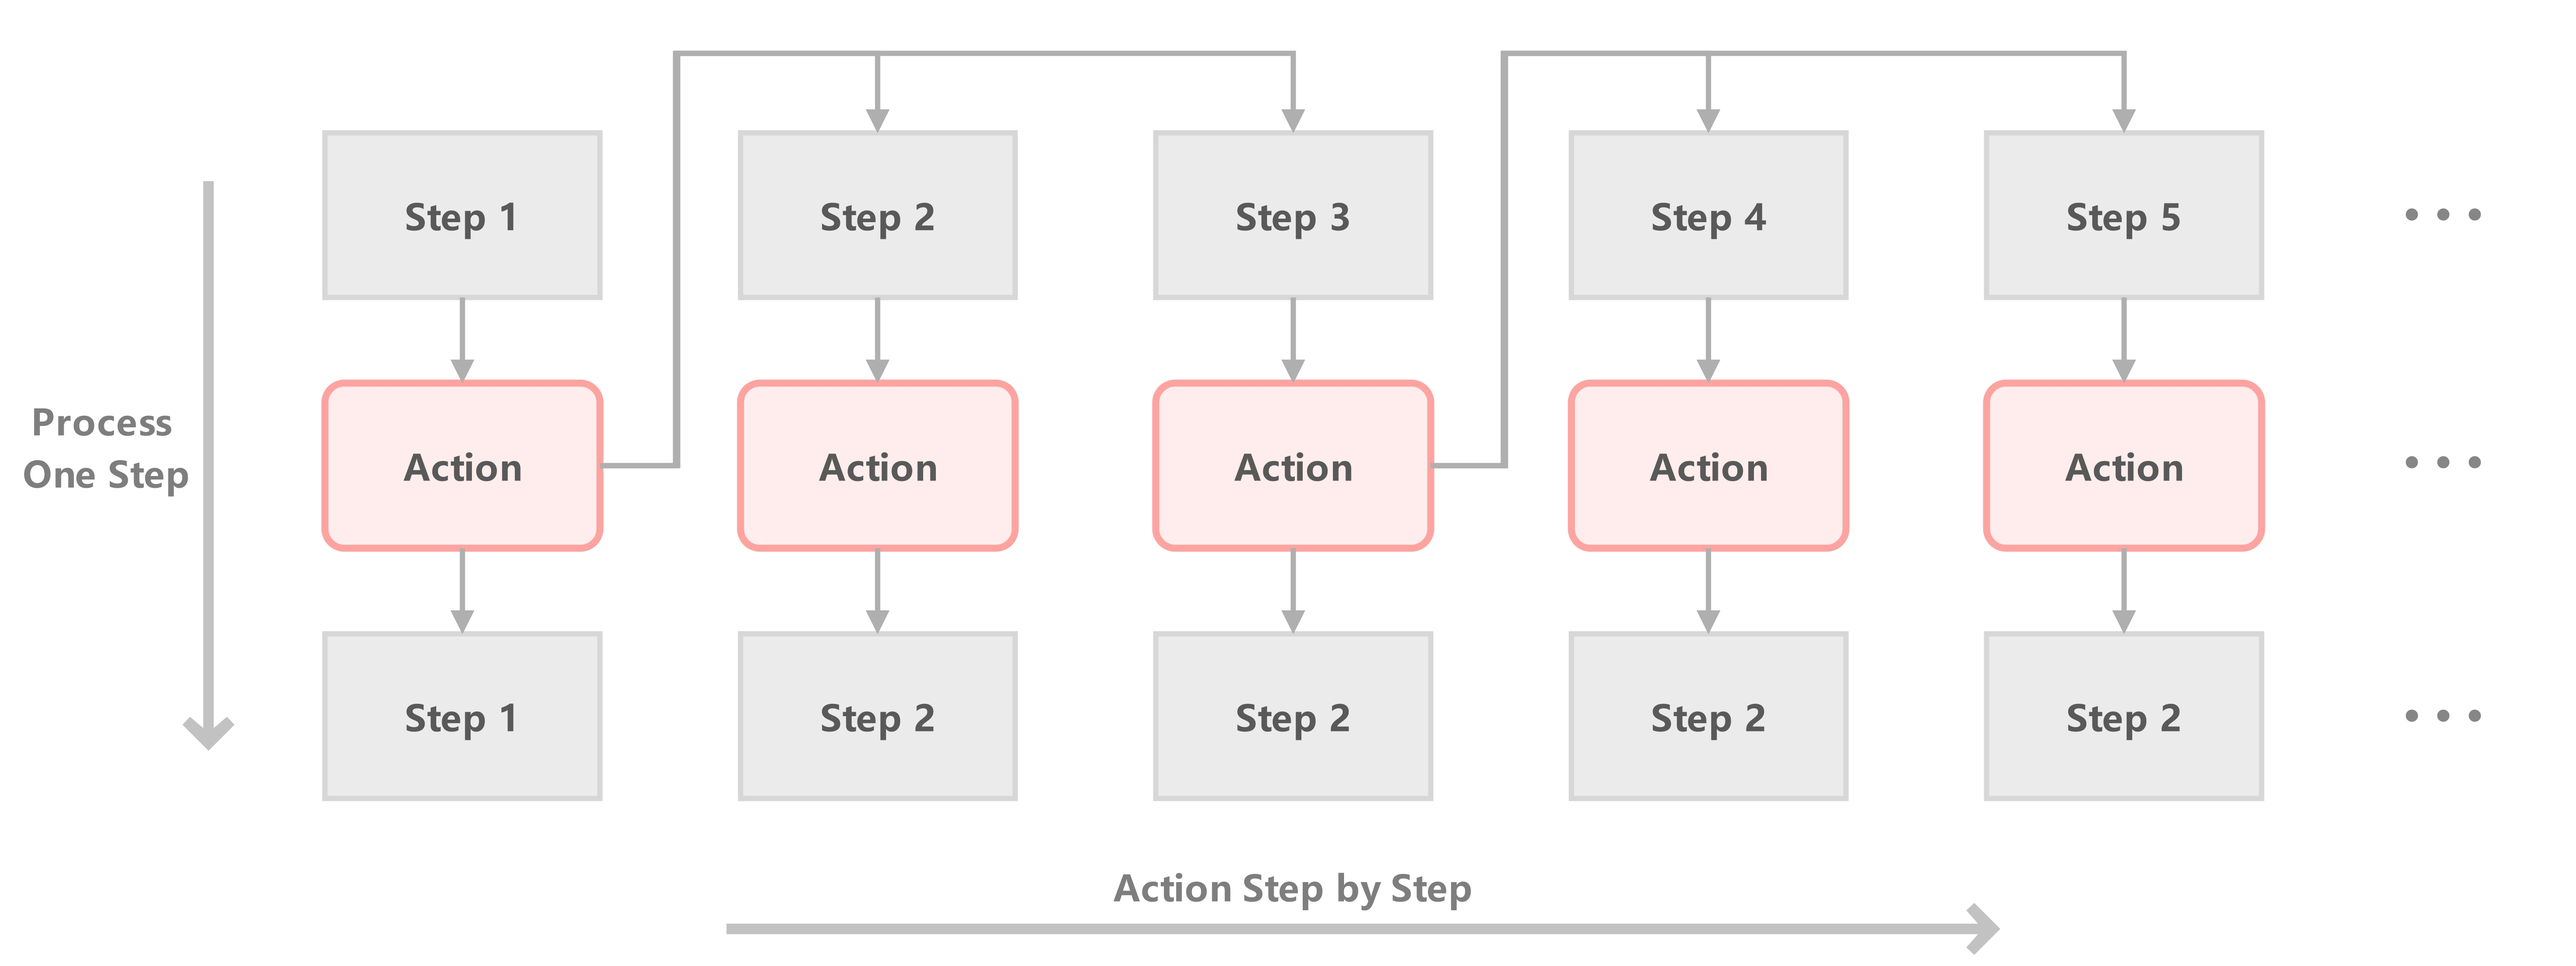
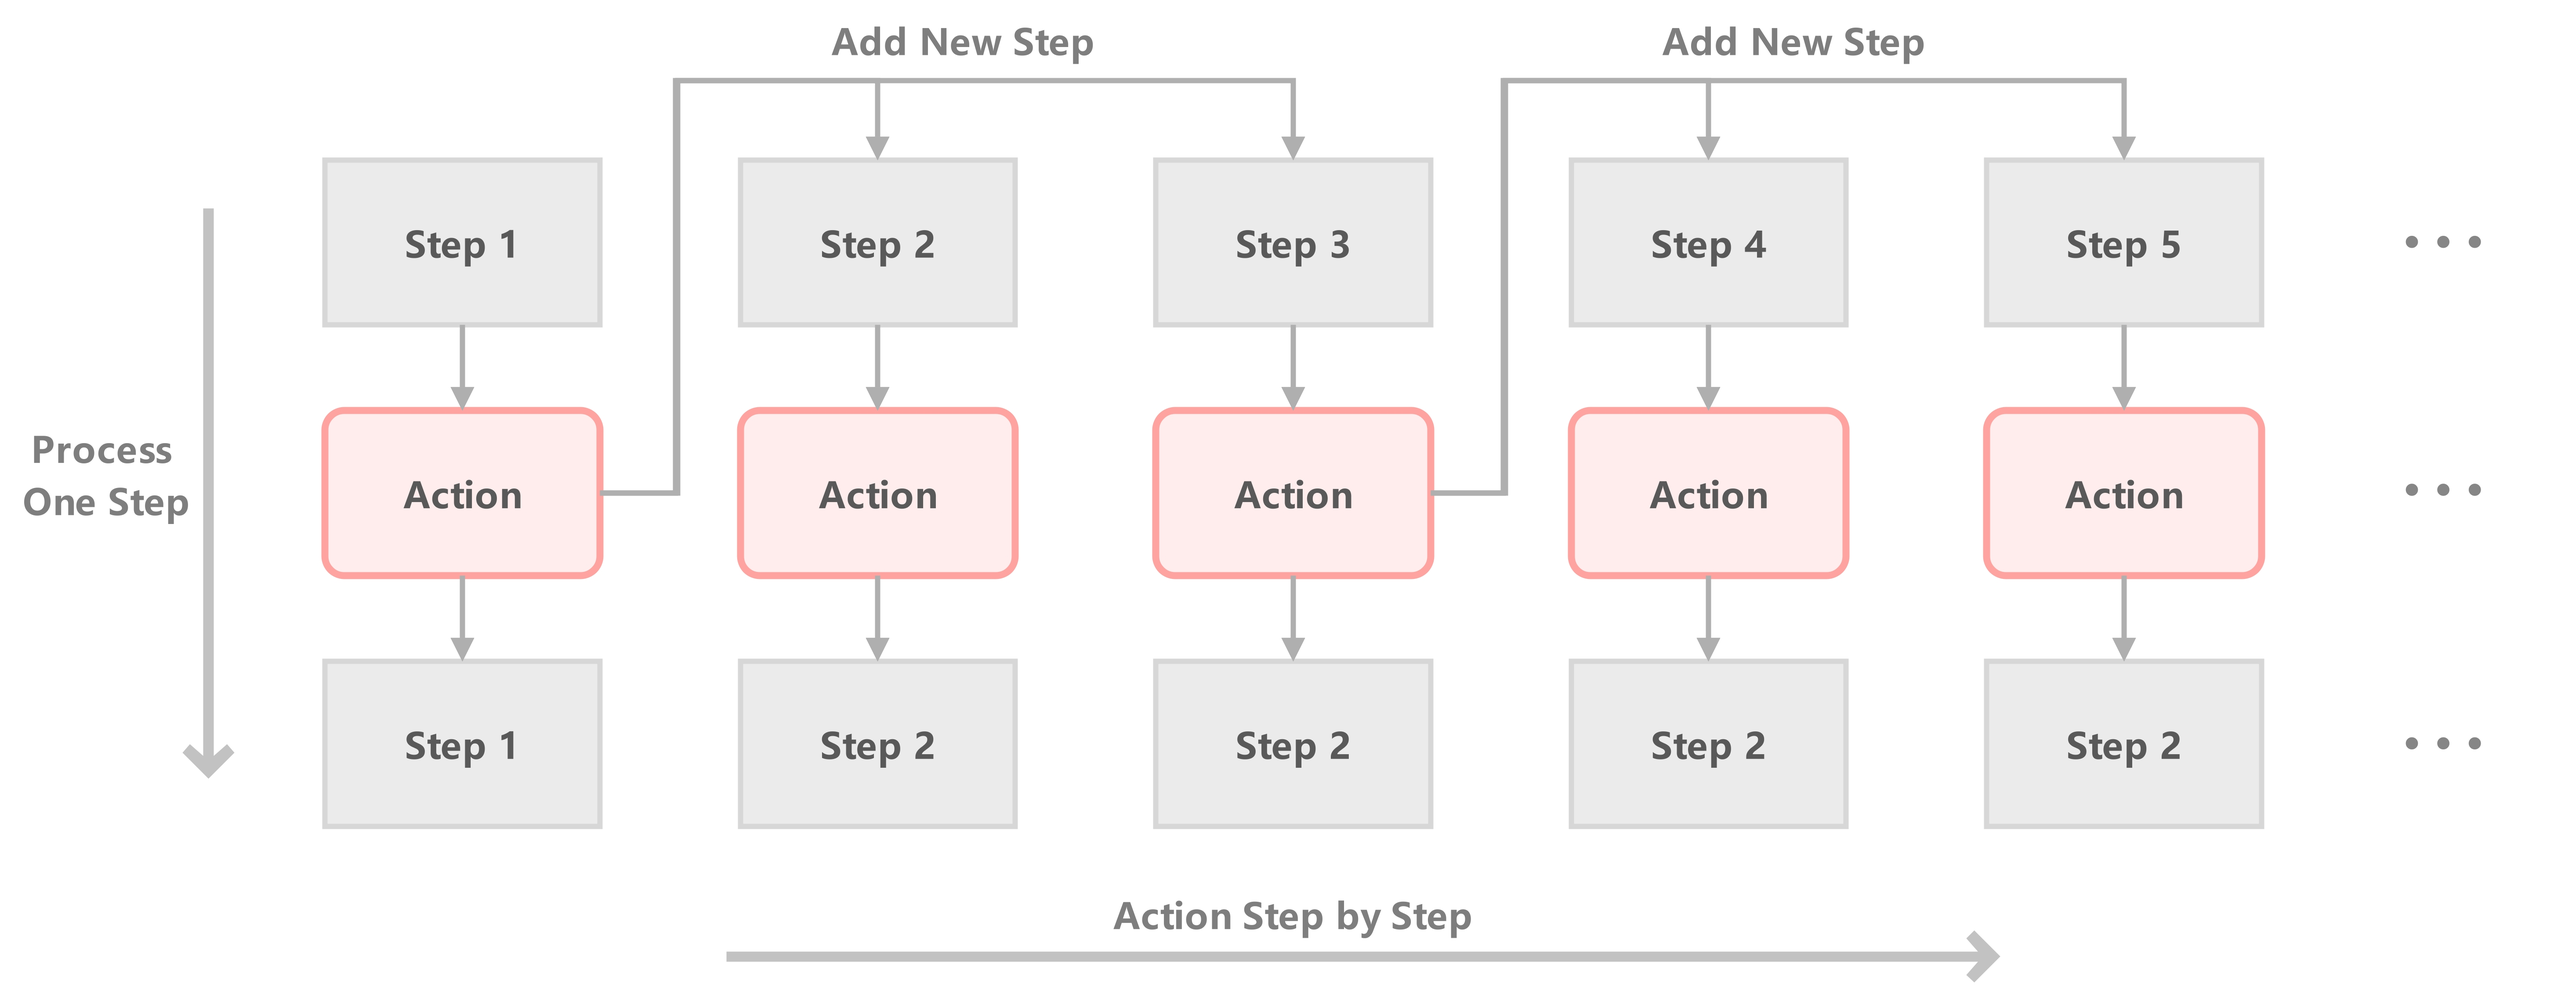
update

diff --git a/-技术报告/多智能体系统-技术报告/TechReport/技术报告中文草稿.md b/-技术报告/多智能体系统-技术报告/TechReport/技术报告中文草稿.md
@@ -162,29 +162,51 @@ Agent State是Agent运行的重要载体。Agent State是一个用于维护Agent
 
 为此我们实现了如图【4】所示的一种构型，通过两个任务层面的状态（Task State和Stage State）和两个Agent执行层面的状态（Agent State和Step State）来有序地管理任务的执行。
 
-
+我们使用Agent和Step两个层级来确保每个Agent的执行均拥有很大的自主决策权，确保对单点任务的强大攻坚能力。我们使用Task和Stage两个层级来确保任务分工的明确，Stage与Stage之间的串行执行和Stage内部多Agent的并行执行能够适应绝大多数的复杂任务框架。
 
 ### 4.1 Status Records Task Information
 
 现在我们详细地说明我们是如何通过状态来追踪和管理任务进程的。由图【4】可以看到，我们的一个Task下包含了多个Stage，每个Stage顺序执行，同一时刻只有一个Stage处于执行状态。在一个Stage中，可能有多个Agent协作执行该阶段目标。而每个Agent会通过一个个具体Step（见图【3】）来逐步完成其被分配的阶段目标。
 
+我们先简要介绍这四种状态所对应的实际运行逻辑：
+
+- Task State
+
+  当整个系统被指派多个任务时，每个任务会有自己的一个任务群组。任务群组由多个参与执行该任务的Agent组成。对每个Agent而言，可能同时参与多个任务群组。但一个任务群组只专注于一个任务，因此Task State负责记录一个任务群组中所有的参与Agent，并记录一个完整的任务流程，即该任务下包含的所有Stage。
+
+  当任务完成时该任务群组解散，随之Task State被清除。
+
+- Stage State
+
+  面对复杂任务时，Agent往往会将任务目标拆分成多个顺序执行的子目标，每个Stage负责一个子目标。面对一些复杂的阶段目标时，阶段支持由多个Agent并行执行该阶段目标。Agent之间可以通信交流来合作实现具体的阶段目标。
+
+  Stage State用于记录该子目标的详细内容，包括Stage中每个参与Agent的具体目标等。Stage完成后并不会立即清除Stage State，而是等到Task结束时一起清除。因为需要保留阶段完成情况以供Task结束判定。
+
+- Agent State
+
+  正如本文第【[3.3]()】节描述的，Agent State是Agent的重要载体。Agent实例化后的一切信息均存储在Agent State中，例如Agent的角色背景设定、技能与工具的权限、持续性记忆等。
+
+  Agent State主要由Agent自身进行更新，例如更新自身的Agent Step以赋予自己行动和决策的能力。但在一些情况下，管理Agent和人类操作员也可以主动改变其他Agent State。Agent State只有在系统中对应Agent被休眠时才会清除释放。
+
+- Step State
+
+  我们在本文【[3.1]()】和【[3.2]()】节说明的Step的执行方式，并强调Step不仅是整个MAS中最小的执行单位，同时也是Agent的活动基础，Agent通过执行一个个Step产生与环境的交互行为。
+
+  Step State用于记录每个Step的具体信息的，包括步骤类型、执行器名称、步骤意图、执行结果等。Step State一般在Agent State中实例化，由Agent State的Agent Step实例统一管理。Step State的创建由Agent的决策规划技能自主决定，Step State的清除则由任务决定（阶段结束时会通知所有Agent释放该阶段相关的Step）。
+
 ![四种状态](./asset/四种状态.jpg)
 
-- 图【5】注：我们MAS中四种State的关系图。其中左侧Task和Stage均属于任务层面的状态记录，右侧Agent和Step均属于执行/实施单位/Agent层面的状态记录；上方的Task和Agent的具体实现均以总览粗略的视角记录信息，下方Stage和Step的具体实现均以具体详尽的细节视角记录信息。分界线交叉处的箭头图描述了四种状态的关系，如果两两状态之间存在指向箭头，说明从起始状态的信息中会记录相关的另一种终点状态的索引。
+- 图【5】注：我们MAS中四种State的关系图。其中左侧Task和Stage均属于任务层面的状态记录，右侧Agent和Step均属于执行/实施单位/Agent层面的状态记录；上方的Task和Agent的具体实现均以总览粗略的视角记录信息，下方Stage和Step的具体实现均以具体详尽的细节视角记录信息。
 
-对于这四种状态，我们
+  分界线交叉处的箭头图描述了四种状态的关系，如果两两状态之间存在指向箭头，说明从起始状态的信息中会记录相关的另一种终点状态的索引。
 
+除此之外，上述四种状态也存在一些相互关联的性质，例如图【5】所示。Task State和Agent State均记录全局内容的大量信息，Stage State 和 Step State 均只关注局部细节的少量信息。Task 下所有 Stage 都是顺序执行的，Agent 下所有 Step 也是顺序执行的。
 
+图【5】中分界线中心的箭头图描述了四种状态的相互索引的关系，其中虚线代表单向索引，实线代表双向索引。可以看到Task需要记录相关的Stage和Agent，Stage也会记录相关的Task和Agent。Agent则需要记录所有相关的Task、Stage和Step，而Step也需要记录所有相关的Task、Stage和Agent。
 
-> 四种状态分别介绍
+在Task、Stage和Agent之间，每一种状态都需要记录和自己相关联的其他两种状态的索引。这可以提供较强的任务追踪管理能力。但是 Stage 和 Task 是不指向具体 Step 的（不记录其下属有哪些Step状态），只指向负责执行的 Agent（只记录下属哪些Agent），因为 Step State 是由 Agent 内部产生的，只被记录在 Agent State 里。
 
-> 详细介绍指向关系
-
-
-
-在具体实现中，Task State 和 Stage State 是相互指向的（在Task和Stage状态会各自记录与自己相关的对方状态的信息）。但是 Stage State 是不指向具体 Step State 的（Stage状态不记录其下属哪些Step状态），只指向负责执行的 Agent（只记录下属哪些Agent），因为 Step State 是由 Agent 内部产生的，只被记录在 Agent State 里。
-
-然而，Step State 会指向 Stage State 用于标明自己属于哪一个任务哪一个阶段，因为一个Agent可能被分配多个不同任务的不同阶段 Stage ，Agent需要区分自己执行的步骤属于哪个阶段。
+然而，Step State 会指向 Task 和 Stage 用于标明自己属于哪一个任务哪一个阶段，因为一个Agent可能被分配多个不同任务的不同阶段 Stage ，Agent需要区分自己执行的步骤属于哪个阶段。
 
 从信息传递的角度看，四种状态的实现非常利于任务拆分与追踪。在任务层面的 Task State、Stage State 能有效记录任务实时状态且能在Agent间保持全局（Task State）与局部（Stage State）的信息同步。同时，在Agent内部的 Step State 则能约束和规范Agent执行流程，是Agent自我观察的信息来源之一。
 
@@ -227,6 +249,16 @@ Message Dispatcher的消息分发会触发接受者Agent的receive message逻辑
 这和人类很相似，我们可以在工作中随时去打扰同事，只因为我们愿意，而不需要被打扰的同事事先同意。因此在Allen架构中，我们需要谨慎设计提示词避免Agent过于频繁地去通过沟通来决策一些细枝末节的小事。因为沟通的时候双方Agent均会将线程暂时用于该通讯Step（Send Message和Process Message）而非其原本执行的任务相关的步骤，尤其是触发步骤锁【附录C】时。
 
 对此我们的另一层限制是仅限同一个Task下的Agent相互通信，和任务无关的两个Agent从根本上无法进行通信（通信的消息体必须在TaskState中转发）。
+
+
+
+**消息干预Agent的执行**
+
+我们这里阐述我们允许何种形式的消息干预执行。我们需要Agent能够对消息内容产生自主的Action。具体而言，我们不应该一一指定什么样的非指令消息对应什么样的反应，而是希望Agent能够自己决策。
+
+因此，我们的消息处理逻辑会导向一个能够产生行为的决策分支。准确说就是导向到添加一个名为Decision的技能Step由Decision Step规划短期即时的步骤去产生和MAS内环境的交互。
+
+为此我们为Agent接收消息的逻辑分支的两个末端：Send Message 和 Process Message 技能，都引入了一个新的决策分支。我们允许这两个技能在必要时刻通过插入追加Decision Step来实现与环境交互的能力，而非单纯的回复消息和理解消息。
 
 
 
